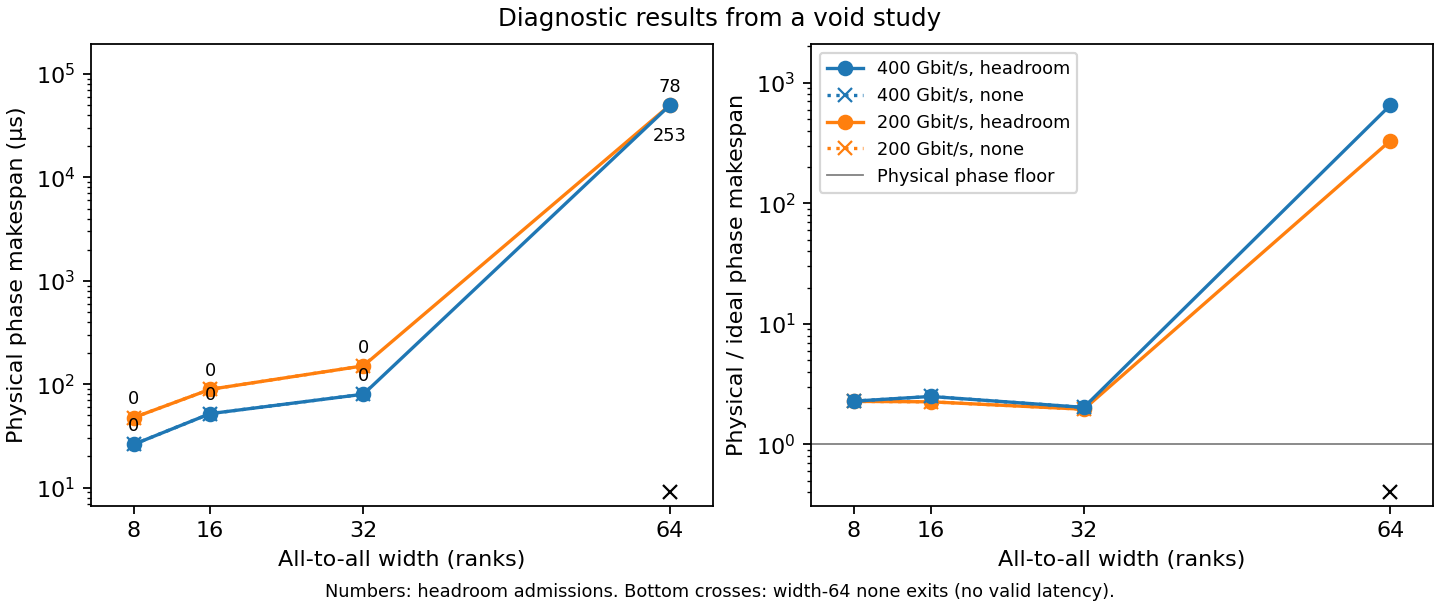
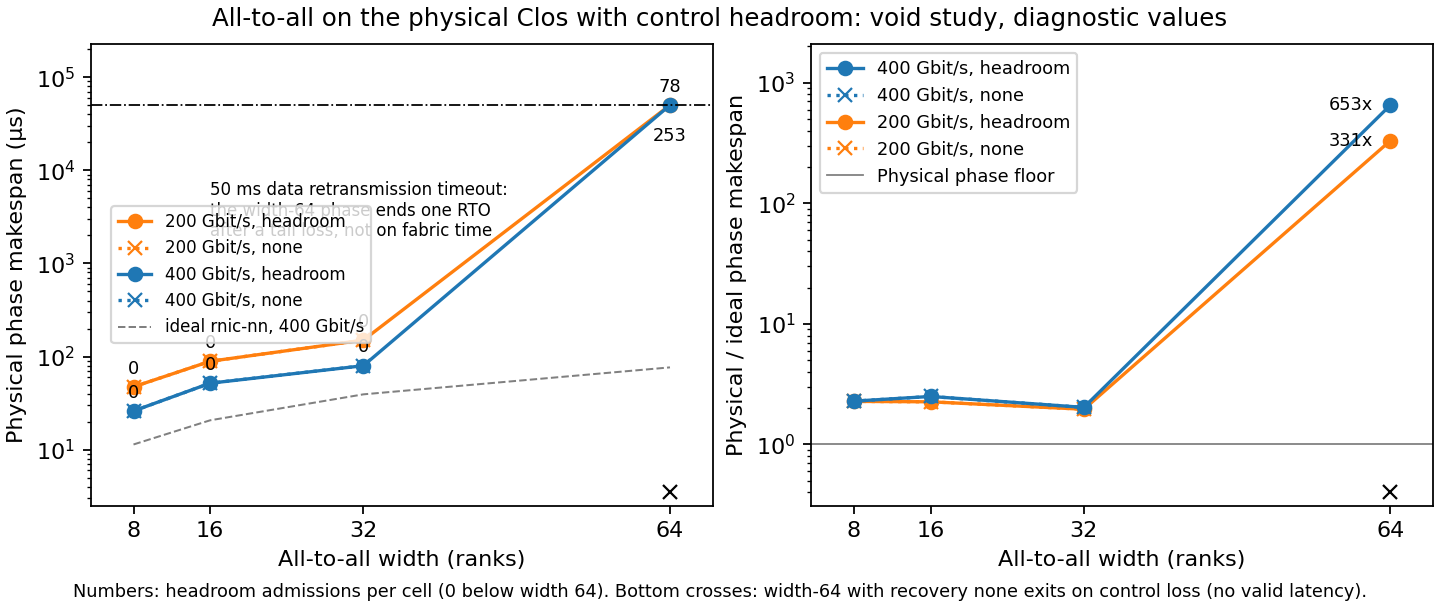
Draw the ideal reference, the retransmission timeout and the width-64 ratios in the control recovery figure

diff --git a/examples/control_recovery_v1/run_study.py b/examples/control_recovery_v1/run_study.py
@@ -411,19 +411,39 @@ def plot(result, output):
                         axes[0].annotate(str(count), (row["width"], row["phase_makespan_ps"] / 1e6),
                                          xytext=(0, -16 if row["width"] == 64 and rate == 200 else 6),
                                          textcoords="offset points", ha="center", fontsize=8)
+    ideal = sorted(((r["width"], r["phase_makespan_ps"] / r["cn_nn_phase_ratio"] / 1e6)
+                    for r in main if r["mode"] == "headroom" and r["rate_gbps"] == 400
+                    and r["phase_makespan_ps"] is not None and r["cn_nn_phase_ratio"]),
+                   key=lambda item: item[0])
+    axes[0].plot([w for w, _ in ideal], [v for _, v in ideal], color="gray", linestyle="--",
+                 linewidth=.9, label="ideal rnic-nn, 400 Gbit/s")
+    axes[0].axhline(50_000, color="black", linewidth=.8, linestyle="-.")
+    axes[0].annotate("50 ms data retransmission timeout:\nthe width-64 phase ends one RTO\n"
+                     "after a tail loss, not on fabric time",
+                     (16, 50_000), xytext=(0, -34), textcoords="offset points", fontsize=7.5,
+                     ha="left", va="top")
+    for row in main:
+        if row["mode"] == "headroom" and row["width"] == 64 and row["cn_nn_phase_ratio"]:
+            axes[1].annotate(f"{row['cn_nn_phase_ratio']:.0f}x",
+                             (64, row["cn_nn_phase_ratio"]),
+                             xytext=(-8, 0), textcoords="offset points", ha="right",
+                             va="center", fontsize=8)
     axes[0].set_ylabel("Physical phase makespan (µs)")
     axes[1].set_ylabel("Physical / ideal phase makespan")
     axes[1].axhline(1, color="gray", linewidth=.8, label="Physical phase floor")
+    axes[0].legend(fontsize=7.5, loc="center left", bbox_to_anchor=(0.02, 0.5))
     for ax in axes:
         ax.set_yscale("log")
         ax.plot([64], [.03], marker="x", color="black", transform=ax.get_xaxis_transform())
     if result["verdict"] == "void":
-        fig.suptitle("Diagnostic results from a void study", fontsize=11)
+        fig.suptitle("All-to-all on the physical Clos with control headroom: "
+                     "void study, diagnostic values", fontsize=11)
     for ax in axes:
         ax.set_xlabel("All-to-all width (ranks)")
         ax.set_xticks([8, 16, 32, 64])
         ax.margins(x=.08, y=.18)
-    fig.supxlabel("Numbers: headroom admissions. Bottom crosses: width-64 none exits (no valid latency).",
+    fig.supxlabel("Numbers: headroom admissions per cell (0 below width 64). "
+                  "Bottom crosses: width-64 with recovery none exits on control loss (no valid latency).",
                   fontsize=8)
     handles, labels = axes[1].get_legend_handles_labels()
     order = [2, 3, 0, 1, 4]
